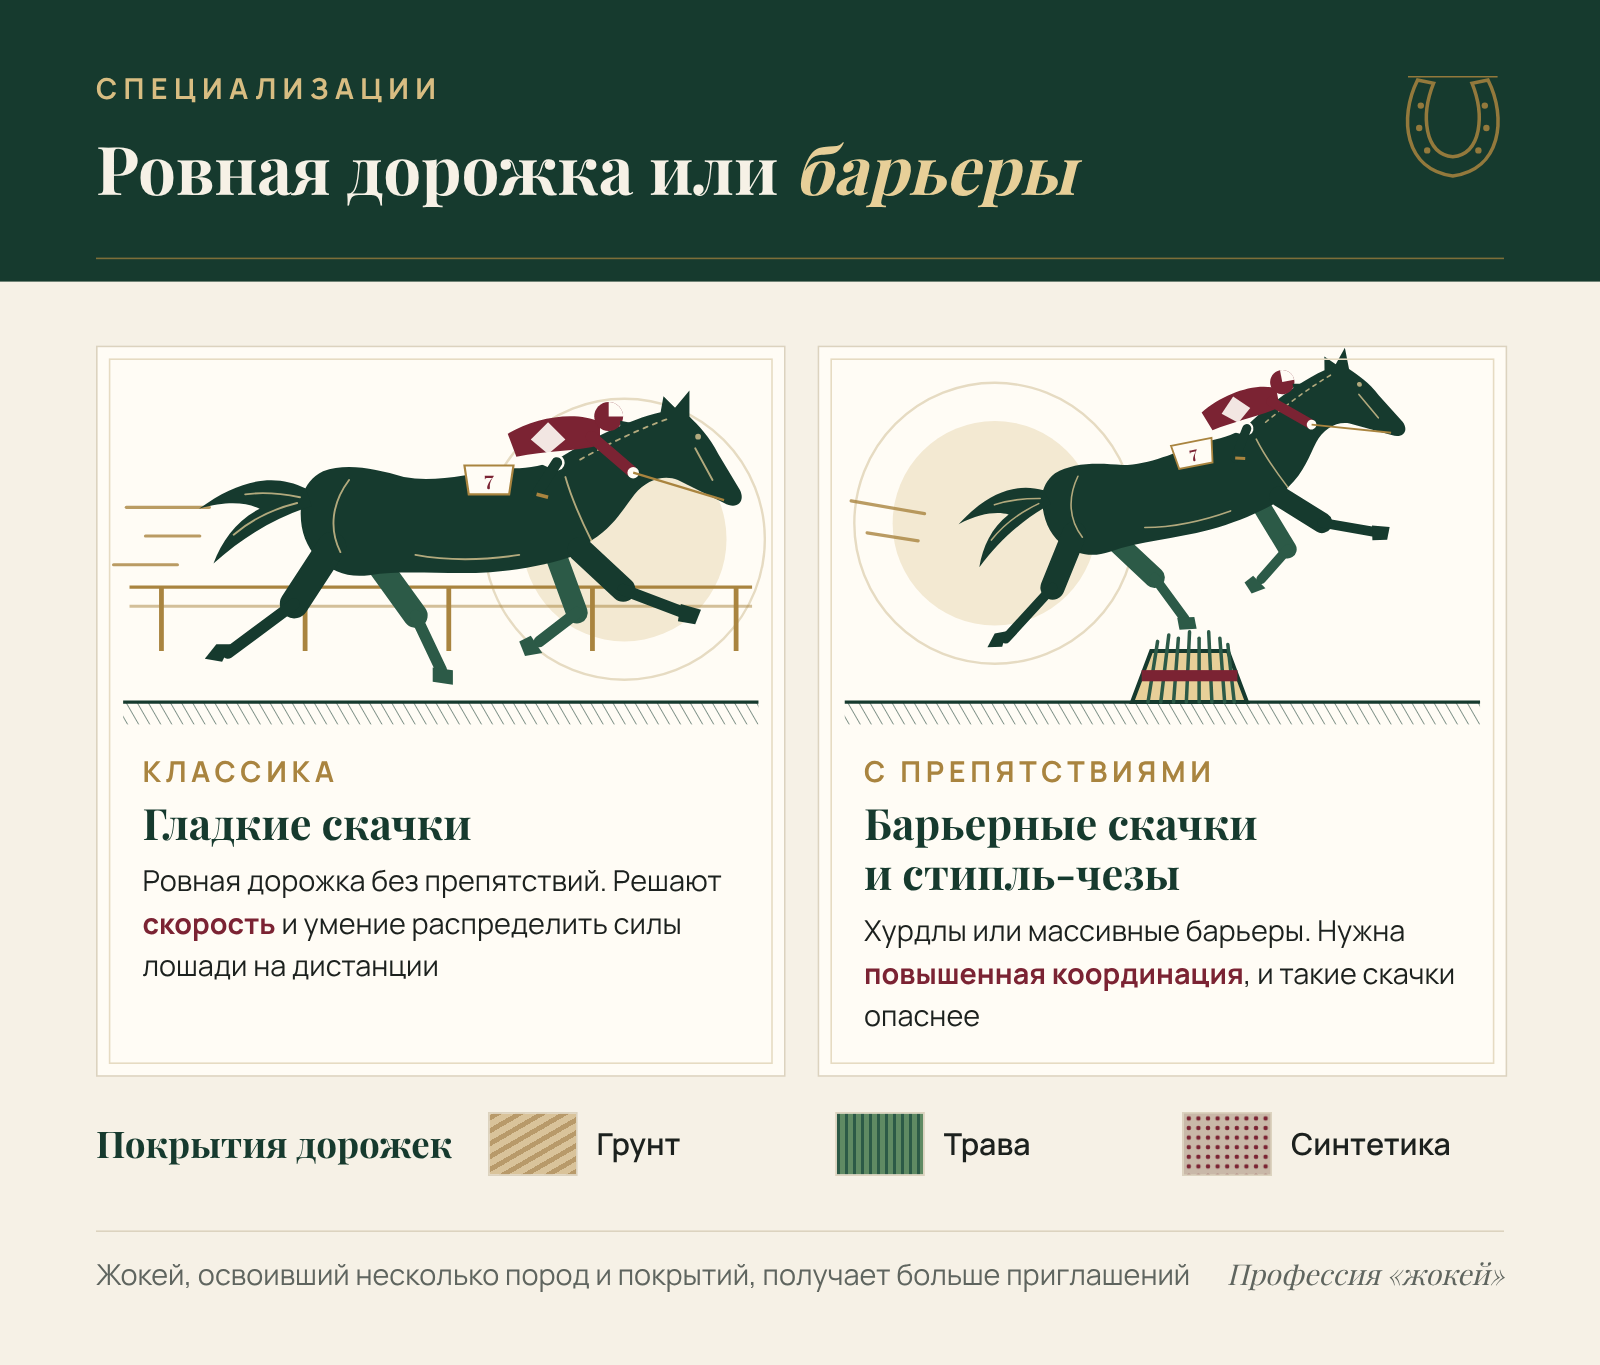
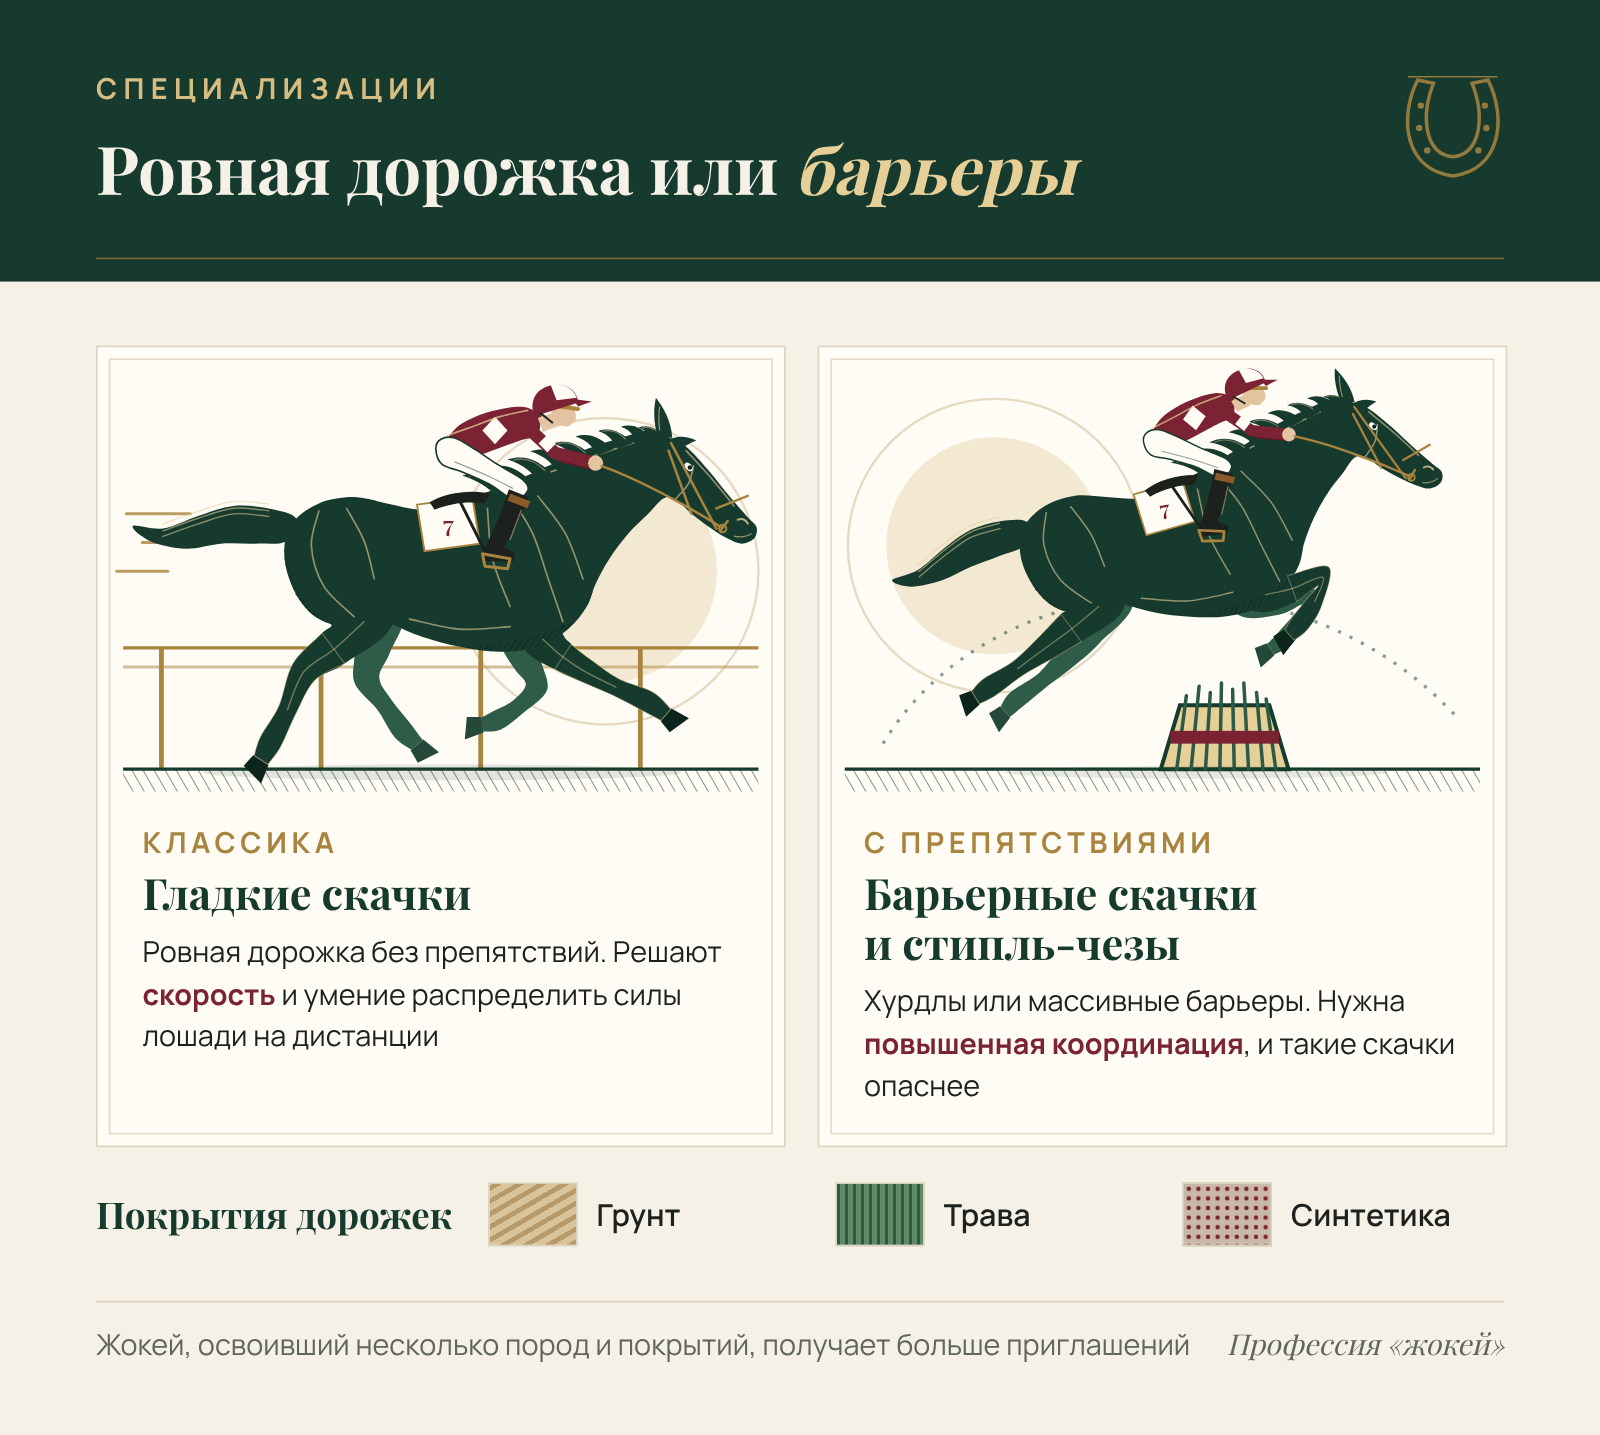
Жокей: анатомичная лошадь, посадка жокея, фигура в экипировке
Claude-Session: https://claude.ai/code/session_019cK9yct1hn6hSG5cVDbxuB

diff --git a/works/ymyl-bronhoskopiya-kt.html b/works/ymyl-bronhoskopiya-kt.html
@@ -168,7 +168,7 @@ h1{font:800 clamp(34px,5.4vw,68px)/1 var(--display);letter-spacing:-.04em;margin
 <h2>Два метода — две разные задачи</h2>
 <p>Компьютерная томография относится к лучевой диагностике. Аппарат с помощью рентгеновского излучения делает послойные снимки грудной клетки. На них видны очаговые изменения, уплотнения, инфильтраты, состояние лимфатических узлов. КТ показывает структуру лёгочной ткани, но не позволяет заглянуть внутрь дыхательных путей.</p>
 <figure>
-<img alt="КТ смотрит на лёгкое срезами снаружи, бронхоскоп — изнутри, по просвету бронхов" height="1286" loading="lazy" src="img/ymyl-bronhoskopiya-kt/01.png" width="1600"/>
+<img alt="КТ смотрит на лёгкое срезами снаружи, бронхоскоп — изнутри, по просвету бронхов" height="1242" loading="lazy" src="img/ymyl-bronhoskopiya-kt/01.png" width="1600"/>
 <figcaption aria-hidden="true">КТ смотрит на лёгкое срезами снаружи, бронхоскоп — изнутри, по просвету бронхов</figcaption>
 </figure>
 <p>Бронхоскопия работает иначе. Врач вводит в дыхательные пути тонкий гибкий бронхоскоп с камерой и подсветкой. Видеобронхоскопия даёт детальное изображение слизистой, позволяет осмотреть просвет бронхов, найти воспаление, новообразования, инородные тела. <strong>Главное преимущество — возможность взять биопсию прямо во время процедуры.</strong></p>
@@ -245,7 +245,7 @@ h1{font:800 clamp(34px,5.4vw,68px)/1 var(--display);letter-spacing:-.04em;margin
 <h2>Когда назначают оба исследования</h2>
 <p>Классический пример комплексного обследования — подозрение на опухоль. Сначала томография находит очаг, затем эндоскопия позволяет взять материал и определить тип клеток.</p>
 <figure>
-<img alt="Порядок обследований зависит от задачи: при подозрении на опухоль первой идёт КТ, при инородном теле — бронхоскопия" height="1155" loading="lazy" src="img/ymyl-bronhoskopiya-kt/02.png" width="1600"/>
+<img alt="Порядок обследований зависит от задачи: при подозрении на опухоль первой идёт КТ, при инородном теле — бронхоскопия" height="1322" loading="lazy" src="img/ymyl-bronhoskopiya-kt/02.png" width="1600"/>
 <figcaption aria-hidden="true">Порядок обследований зависит от задачи: при подозрении на опухоль первой идёт КТ, при инородном теле — бронхоскопия</figcaption>
 </figure>
 <p>Последовательность определяет врач. Иногда сначала выполняют томографию, чтобы понять объём поражения, а затем бронхоскопию для уточнения диагноза. В других случаях эндоскопию проводят первой — например, если есть подозрение на инородное тело в дыхательных путях.</p>

diff --git a/works/jockey.html b/works/jockey.html
@@ -205,7 +205,7 @@ h1{font:800 clamp(34px,5.4vw,68px)/1 var(--display);letter-spacing:-.04em;margin
 <h2>Специализации</h2>
 <p>В скаковом спорте несколько направлений, и жокей обычно специализируется на одном-двух из них. Главное различие между ними — есть ли на дистанции препятствия.</p>
 <figure>
-<img alt="Гладкая скачка проверяет скорость и расчёт сил, барьерная — ещё и координацию; а покрытие дорожки добавляет свою специфику" height="1365" loading="lazy" src="img/jockey/03.png" width="1600"/>
+<img alt="Гладкая скачка проверяет скорость и расчёт сил, барьерная — ещё и координацию; а покрытие дорожки добавляет свою специфику" height="1435" loading="lazy" src="img/jockey/03.png" width="1600"/>
 <figcaption aria-hidden="true">Гладкая скачка проверяет скорость и расчёт сил, барьерная — ещё и координацию; а покрытие дорожки добавляет свою специфику</figcaption>
 </figure>
 <p>От формата зависит, что жокей тренирует в первую очередь: на ровной дорожке важнее скорость и расчёт сил, на дистанции с барьерами — координация и готовность к риску. Коротко различия выглядят так.</p>
